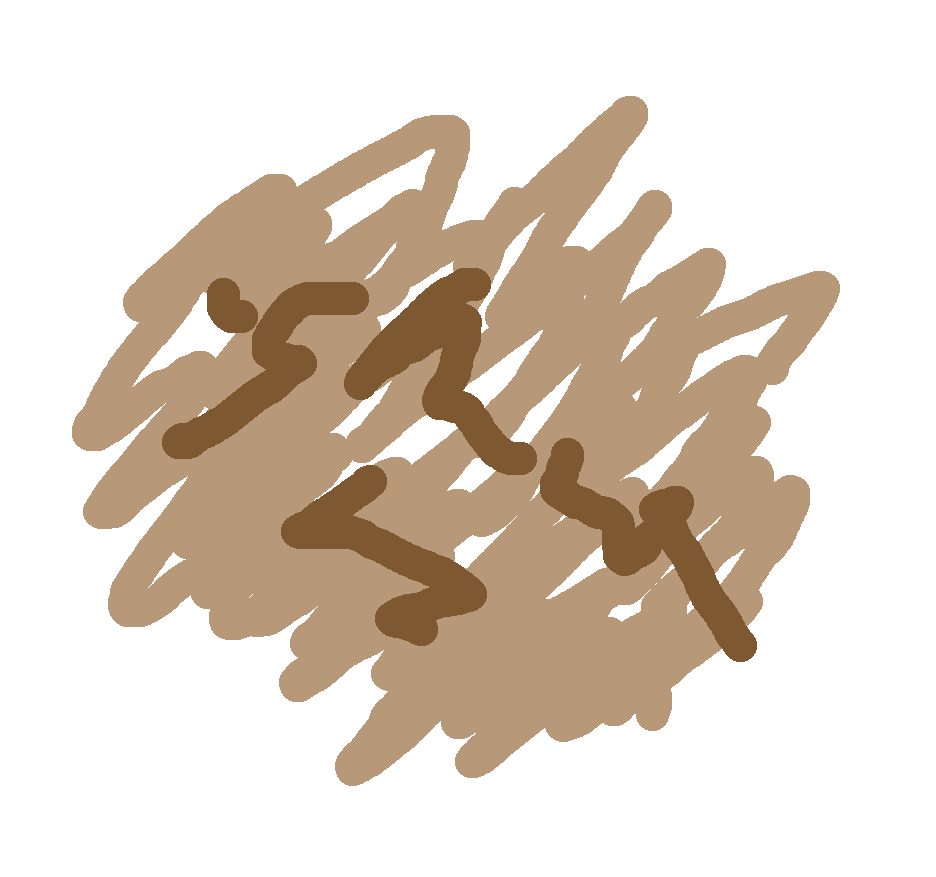
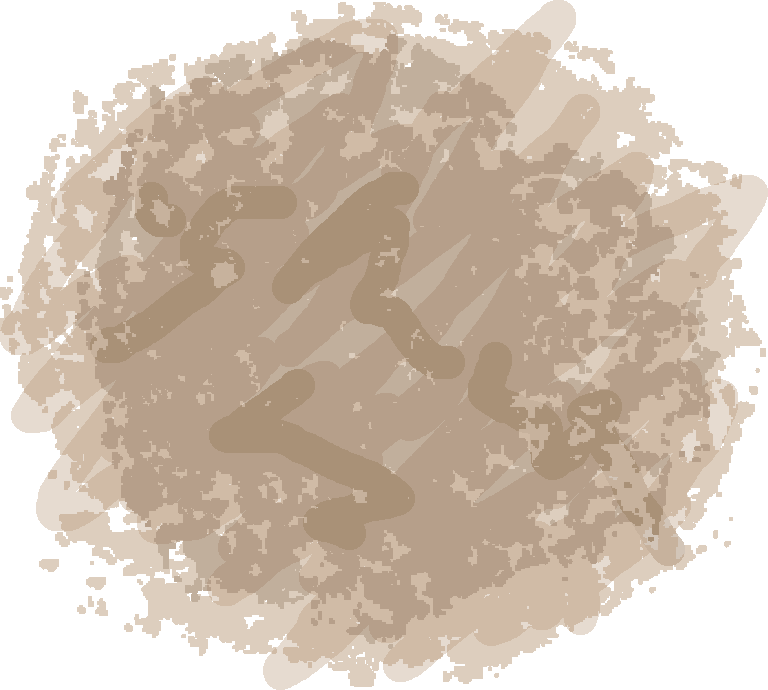
Add BaseScrubScene for scrubbing minigames

diff --git a/src/scenes/BaseScrubScene.ts b/src/scenes/BaseScrubScene.ts
@@ -1,0 +1,178 @@
+import { BaseScene } from "@/scenes/BaseScene";
+import { Player } from "@/components/Player";
+import { UI } from "@/components/UI";
+
+export class BaseScrubScene extends BaseScene {
+	protected texture: Phaser.GameObjects.RenderTexture;
+	protected brush: Phaser.GameObjects.Image;
+	protected clearBrush: Phaser.GameObjects.Image;
+	protected dirtParticles: { x: number; y: number; hp: number }[];
+	protected dirtDebug: Phaser.GameObjects.Graphics;
+
+	protected progress: number;
+	protected isComplete: boolean;
+
+	constructor(config: Phaser.Types.Scenes.SettingsConfig) {
+		super(config);
+	}
+
+	create(): void {
+		this.fade(false, 200, 0x000000);
+		this.cameras.main.setBackgroundColor(0x777777);
+
+		this.progress = 1;
+		this.isComplete = false;
+
+		// this.initDynamicTexture("test_foreground", this.CX, this.CY, false, false);
+		// this.initDynamicTexture("test_circle", this.CX, this.CY, true, true);
+	}
+
+	update(time: number, delta: number) {
+		// this.dirt.setAlpha(0.5 + 0.5 * Math.sin((4 * time) / 1000));
+		// this.sparkles.setAlpha(0.75 + 0.25 * Math.sin((40 * time) / 1000));
+	}
+
+	/* Mask */
+
+	initDynamicTexture({
+		textureKey,
+		centerX = 1920 / 2,
+		centerY = 1080 / 2,
+		asCircle = false,
+		debug = false,
+	}: {
+		textureKey: string;
+		centerX: number;
+		centerY: number;
+		asCircle: boolean;
+		debug: boolean;
+	}) {
+		this.progress = 0;
+		this.isComplete = false;
+
+		this.input.on("pointerdown", this.onPointerDown, this);
+		this.input.on("pointermove", this.onPointerMove, this);
+
+		this.texture = this.add.renderTexture(0, 0, this.W, this.H);
+		this.texture.setOrigin(0);
+		let { width, height } = this.textures.getFrame(textureKey);
+		this.texture.draw(textureKey, centerX - width / 2, centerY - height / 2);
+
+		this.brush = this.make.image({ key: "brush" }, false);
+		this.brush.setAlpha(0.5);
+		this.brush.setScale(this.brushSize / this.brush.width);
+
+		this.clearBrush = this.make.image({ key: "circle" }, false);
+		this.clearBrush.setScale(100);
+
+		let left = centerX - width / 2;
+		let right = centerX + width / 2;
+		let top = centerY - height / 2;
+		let bottom = centerY + height / 2;
+
+		this.dirtParticles = [];
+		let k = 0;
+		for (let x = left; x <= right; x += this.dirtSize / 2) {
+			for (let y = top; y <= bottom; y += this.dirtSize / 2) {
+				// Skip every other
+				if (k++ % 2 == 0) {
+					continue;
+				}
+				// Circle test
+				let dist = Phaser.Math.Distance.Between(x, y, centerX, centerY);
+				if (asCircle && dist > width / 2) {
+					continue;
+				}
+
+				this.dirtParticles.push({ x, y, hp: 1 });
+			}
+			k++;
+		}
+
+		if (debug) {
+			this.dirtDebug = this.add.graphics();
+			this.drawDebug();
+		}
+	}
+
+	onPointerDown(pointer: Phaser.Input.Pointer) {
+		if (this.isComplete) return;
+
+		for (let i = 0; i < 5; i++) {
+			this.onRub(pointer);
+		}
+	}
+
+	onPointerMove(pointer: Phaser.Input.Pointer) {
+		if (this.isComplete) return;
+
+		if (pointer.isDown) {
+			this.onRub(pointer);
+		}
+	}
+
+	onRub(pointer: Phaser.Input.Pointer) {
+		if (this.isComplete) return;
+
+		// Rotate and apply brush
+		this.brush.angle = 360 * Math.random();
+		this.texture.erase(this.brush, pointer.x, pointer.y);
+
+		// Remove dirt checks
+		this.dirtParticles.forEach((dirt) => {
+			if (dirt.hp > 0) {
+				let dist = Phaser.Math.Distance.BetweenPoints(dirt, pointer);
+				if (dist < 0.5 * this.brushSize) {
+					dirt.hp = Math.max(dirt.hp - 0.3, 0);
+				}
+			}
+		});
+
+		// Calculate progress
+		let sum = this.dirtParticles.reduce((sum, { hp }) => sum + hp, 0);
+		this.progress = 1 - sum / this.dirtParticles.length;
+
+		// Debug rendering
+		if (this.dirtDebug) {
+			this.drawDebug();
+		}
+
+		if (this.progress >= 1.0) {
+			this.clearDirt();
+		}
+	}
+
+	drawDebug() {
+		this.dirtDebug.clear();
+		this.dirtParticles.forEach(({ x, y, hp }) => {
+			this.dirtDebug.fillStyle(0xffffff, hp > 0 ? 0.5 : 0);
+			this.dirtDebug.fillCircle(x, y, this.dirtSize / 2);
+		});
+	}
+
+	clearDirt() {
+		this.isComplete = true;
+		this.onComplete();
+
+		this.tweens.addCounter({
+			from: 0,
+			to: 1,
+			duration: 1000,
+			ease: "Quad.In",
+			onUpdate: (tween, target, key, current) => {
+				this.clearBrush.setAlpha(current);
+				this.texture.erase(this.clearBrush, this.CX, this.CY);
+			},
+		});
+	}
+
+	onComplete() {}
+
+	get brushSize(): number {
+		return 256;
+	}
+
+	get dirtSize(): number {
+		return 64;
+	}
+}

diff --git a/src/scenes/DishesScene.ts b/src/scenes/DishesScene.ts
@@ -1,11 +1,10 @@
-import { BaseScene } from "@/scenes/BaseScene";
+import { BaseScrubScene } from "@/scenes/BaseScrubScene";
 import { Player } from "@/components/Player";
 import { UI } from "@/components/UI";
 
-export class DishesScene extends BaseScene {
+export class DishesScene extends BaseScrubScene {
 	private background: Phaser.GameObjects.Image;
 	private plate: Phaser.GameObjects.Image;
-	private dirt: Phaser.GameObjects.Image;
 	private sparkles: Phaser.GameObjects.Image;
 	private sponge: Phaser.GameObjects.Image;
 
@@ -25,7 +24,13 @@ export class DishesScene extends BaseScene {
 
 		this.plate = this.add.image(this.CX, this.CY, "dishes_plate");
 
-		this.dirt = this.add.image(this.CX, this.CY, "dishes_dirt");
+		this.initDynamicTexture({
+			textureKey: "dishes_dirt",
+			centerX: this.CX,
+			centerY: this.CY,
+			asCircle: true,
+			debug: false,
+		});
 
 		this.sparkles = this.add.image(this.CX, this.CY, "dishes_sparkles");
 		this.sparkles.setVisible(false);
@@ -40,23 +45,29 @@ export class DishesScene extends BaseScene {
 			color: "black",
 		});
 		this.text.setOrigin(0.5, 0.0);
-
-		/* Mask */
-
-		let maskGraphics = this.make.graphics({}, false);
-		maskGraphics.fillStyle(0xffffff);
-		maskGraphics.fillRect(0, 0, 100, 100);
-		let maskArea = new Phaser.Display.Masks.GeometryMask(this, maskGraphics);
-		this.dirt.setMask(maskArea);
-
-		/* Interactions */
-
-		// this.background.setInteractive({});
 	}
 
 	update(time: number, delta: number) {
-		this.dirt.setAlpha(0.5 + 0.5 * Math.sin((4 * time) / 1000));
+		// this.dirt.setAlpha(0.5 + 0.5 * Math.sin((4 * time) / 1000));
 
-		// this.sparkles.setAlpha(0.75 + 0.25 * Math.sin((40 * time) / 1000));
+		this.sparkles.setScale(1.0 + 0.05 * Math.sin((8 * time) / 1000));
+	}
+
+	onRub(pointer: Phaser.Input.Pointer): void {
+		super.onRub(pointer);
+
+		this.sponge.setPosition(pointer.x, pointer.y);
+	}
+
+	onComplete(): void {
+		this.sparkles.setVisible(true);
+
+		this.tweens.add({
+			targets: this.sponge,
+			duration: 1000,
+			ease: "Cubic",
+			x: { from: this.sponge.x, to: 300 },
+			y: { from: this.sponge.y, to: 800 },
+		});
 	}
 }

diff --git a/src/game.ts b/src/game.ts
@@ -2,7 +2,7 @@ import Phaser from "phaser";
 import { PreloadScene } from "@/scenes/PreloadScene";
 import { TitleScene } from "@/scenes/TitleScene";
 import { GameScene } from "@/scenes/GameScene";
-import { TestScene } from "@/scenes/TestScene";
+import { BaseScrubScene } from "@/scenes/BaseScrubScene";
 import { DishesScene } from "@/scenes/DishesScene";
 import OutlinePipelinePlugin from "phaser3-rex-plugins/plugins/outlinepipeline-plugin.js";
 
@@ -15,7 +15,7 @@ const config: Phaser.Types.Core.GameConfig = {
 	scale: {
 		mode: Phaser.Scale.FIT,
 	},
-	scene: [PreloadScene, TitleScene, GameScene, TestScene, DishesScene],
+	scene: [PreloadScene, TitleScene, GameScene, BaseScrubScene, DishesScene],
 
 	plugins: {
 		global: [

diff --git a/src/assets/assets.ts b/src/assets/assets.ts
@@ -26,6 +26,7 @@ const images: Image[] = [
 	// Testing
 	image("scenes/test_background", "test_background"),
 	image("scenes/test_foreground", "test_foreground"),
+	image("scenes/test_circle", "test_circle"),
 	image("brush", "brush"),
 	image("circle", "circle"),
 ];

diff --git a/src/scenes/PreloadScene.ts b/src/scenes/PreloadScene.ts
@@ -76,7 +76,7 @@ export class PreloadScene extends BaseScene {
 	create() {
 		this.fade(true, 100, 0x000000);
 		this.addEvent(100, () => {
-			this.scene.start("TestScene");
+			this.scene.start("DishesScene");
 		});
 	}
 }
